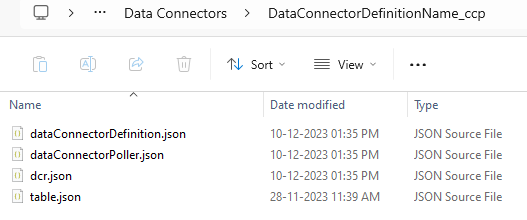
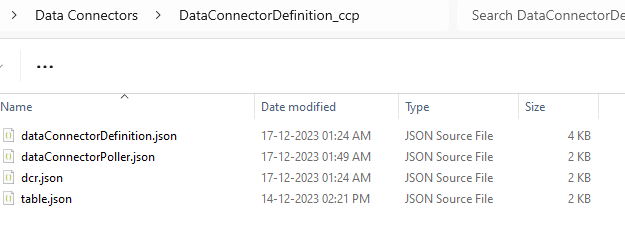
updated read me file and added images

diff --git a/Tools/Create-Azure-Sentinel-Solution/V3/CCP_README.md b/Tools/Create-Azure-Sentinel-Solution/V3/CCP_README.md
@@ -6,7 +6,7 @@ To create a package using V3 packaging tool refer [Link to V3](https://github.co
 Every CCP connector will have 4 building blocks and should be specified in sequence given below:
 1. Data Connector Definition - Consider this an a UI page shown after deployment to users and contains instruction steps and connectorUiConfig section.
 2. Data Connectors (Poller) - This will contain details to connect to your REST API and has a poller details.
-3. Data Collection Rule - Specify which data column should be collected
+3. Data Collection Rule - Specify, what data should be collected, how to transform that data, and where to send it.
 4. Tables (Optional) - Stores your data logs.
 
 #### Note: Each of this files depend on mapping with other files which is specified in "How to Use ?" section of this document. Eg: Data definition file should have a mapping with Data poller file. Data poller file should have a mapping with DCR file. DCR file should have a mapping with Tables file. Tables file is optional and so, if there is no mapping from DCR with table then remove the "outputStream" property from "DCR" file.
@@ -14,22 +14,32 @@ Every CCP connector will have 4 building blocks and should be specified in seque
 ## How to Use ?
 1. In Data input file under Azure-Sentinel/Solutions, open the solution you want to add a CCP connector.
 2. Open data input file and under "Data Connectors" array object add a path to new dataConnectorDefinition file.
-3. File name to dataConnectorDefinition should be meaningful and recommended to have a suffix "Definition" attached to the name at the end e.g. OktaDefinition.json.
+3. File name to dataConnectorDefinition should be meaningful and recommended to have a suffix "Definition" attached to the name at the end e.g. dataConnectorDefinition.json.
 4. Navigate to your "Solutions/<yourSolutionName>/Data Connectors" folder and create a new folder for ccp suffix at the end e.g: DataConnectorDefinitionName_ccp".
 5. Once a folder for CCP is created then add/create 4 files dataConnectorDefinition.json, dataPoller.json, DCR.json and table.json. Here table.json file is optional. Also, you can specific a different naming to the files but having a suffix of "Definition", "Poller", "DCR", "Table" in the file name at the end will be easy to correlate. Below is an example folder file structure for CCP.
 
-![Alt text](ccp-folder-structure.png)
+    ![Alt text](ccp-folder-structure.png)
 
 6. There can be only 1 data definition file per CCP connector. If you have multiple CCP connectors then create multiple data connector definition files and specify the file paths in the data folder input file under "Data Connectors" array. There is no need to specify other file paths for poller, dcr or tables. 
 7. dataConnectorDefinition file is the starting point for any CCP connector and this file path should only be specified in data folder input file under "Data Connectors" array.
+
+    ![Alt text](dataInputDataConnectorsArray.png)
+
 8. Mapping between dataConnectorDefinition and Poller file should present. Poller file mapping with DCR should be present. If mapping is not present and if present but mapping values are not correct then packaging will fail.
 9. Details for each of the file information is specified below:</br>
   a. Data Connector Definition File:
     - The "type" property value should be "Microsoft.SecurityInsights/dataConnectorDefinitions".
+
+      ![Alt text](dataConnectorDefinitionType.png)
+
     - Below is a sample data connector definition file and will show field and details on UI package in data connector page.
     - Curly braces placeholder eg: {{location}}) value will be replaced with parameters after packaging using V3 tool.
     - In this file, "connectorUiConfig" section should always have a "id" field with a name without space.
+
+      ![Alt text](dataConnectorDefinitionFields.png)
+    
     - This "id" value is important to have a mapping between data connector definition and a poller file.
+    - The field "name" and "id" should be kept same.
     - InstructionSteps can be basic/oauth or of other types and keep rest of the key value pairs as is.
     - Keep rest all properties of the file as is.
 
@@ -105,7 +115,13 @@ Every CCP connector will have 4 building blocks and should be specified in seque
   - The "type" property value should be "Microsoft.SecurityInsights/dataConnectors".
   - If a file contains "connectorUiConfig" and a "pollerConfig" sections in a json file then its a clv1 type of CCP connector and is a legacy connector. It is recommended to switch to clv2 type of CCP connectors.
   - Here "properties --> connectorDefinitionName" value should be same as that of this data definition file "id" property.
+  
+    ![Alt text](dataPollerFields.png)
+
   - In below json file, "streamName" should contain a suffix at the start "Custom-<namevalue>" 
+
+    ![Alt text](dcrStreamName.png)
+
   - Property dataCollectionEndpoint and dataCollectionRuleImmutableId are optional parameters in dcrConfic object. If specified then it will use the value as is unless placeholder "{{value}}" is used for this properties dataCollectionEndpoint and dataCollectionRuleImmutableId.
   - The property "rateLimitQps", "retryCount" can made dynamic by adding a placeholder like "{{rateLimitQps}}". Doing this it will create a parameter in mainTemplate and in mainTemplate.json file this placeholder will get replaced by ARM template parameter reference.
   - Keep rest all properties of the file as is.
@@ -168,6 +184,9 @@ Every CCP connector will have 4 building blocks and should be specified in seque
   c. Data Collection Rules(DCR):
   - The "type" property value should be "Microsoft.Insights/dataCollectionRules".
   - DCR, "name" property should be very short and without space. Total length of "name" field is 65 which on deployment adds  "Microsoft-Sentinel-{DCR-file-name-property-value}-{workspaceName}-{random-unique-value}". Here, "Microsoft-Sentinel" suffix is attached to the name property from DCR file and then attached with workspace name on which it is deployed along with a random number. When total length of this value exceeds then DCR will not get created and will fail in deployment.
+
+    ![Alt text](dcrFields.png)
+
   - Once deployment is done it is recommended to verify if DCR is created in Azure portal, global search by searching for "Data Collection Rules" and then in "Data Collection Rules" search with the name that you specified in the source file on DCR "name" property. If search result shows a record in deployed resource group. If you don't see a result for the "name" property value specified in DCR file then its possibly a problem in DCR source file which failed in DCR creation. The first possible thing to verify if the length of DCR name exceed 65 characters.
   - To verify length of DCR name, when we open data connector and click on "Connect" button, make sure to open browser "Developer tools" or right click on browser and do "Ctrl+F12" which will open up "Developer tools" and navigate to "Network" tab as shown below:
   - Property "workspaceResourceId" is optional and is not required to be specified. If not specified then it replaces this property with value "[resourceId('microsoft.OperationalInsights/Workspaces', parameters('workspace'))]" in mainTemplate as a variables.
@@ -227,6 +246,9 @@ Every CCP connector will have 4 building blocks and should be specified in seque
   - The "type" property of the file should be "Microsoft.OperationalInsights/workspaces/tables".
   - The "name" and "properties-->schema-->name" properties values should be same.
   - This "name" property value should be same as that in DCR file "outputStream" and should contain "Custom-<tableName>" in DCR File.
+  
+    ![Alt text](tableFields.png)
+
   - This file should not contain "name" value "Custom-". If present then please remove as it will not work for parsers.
   - Specify all columns for your table in "columns" array.
 
